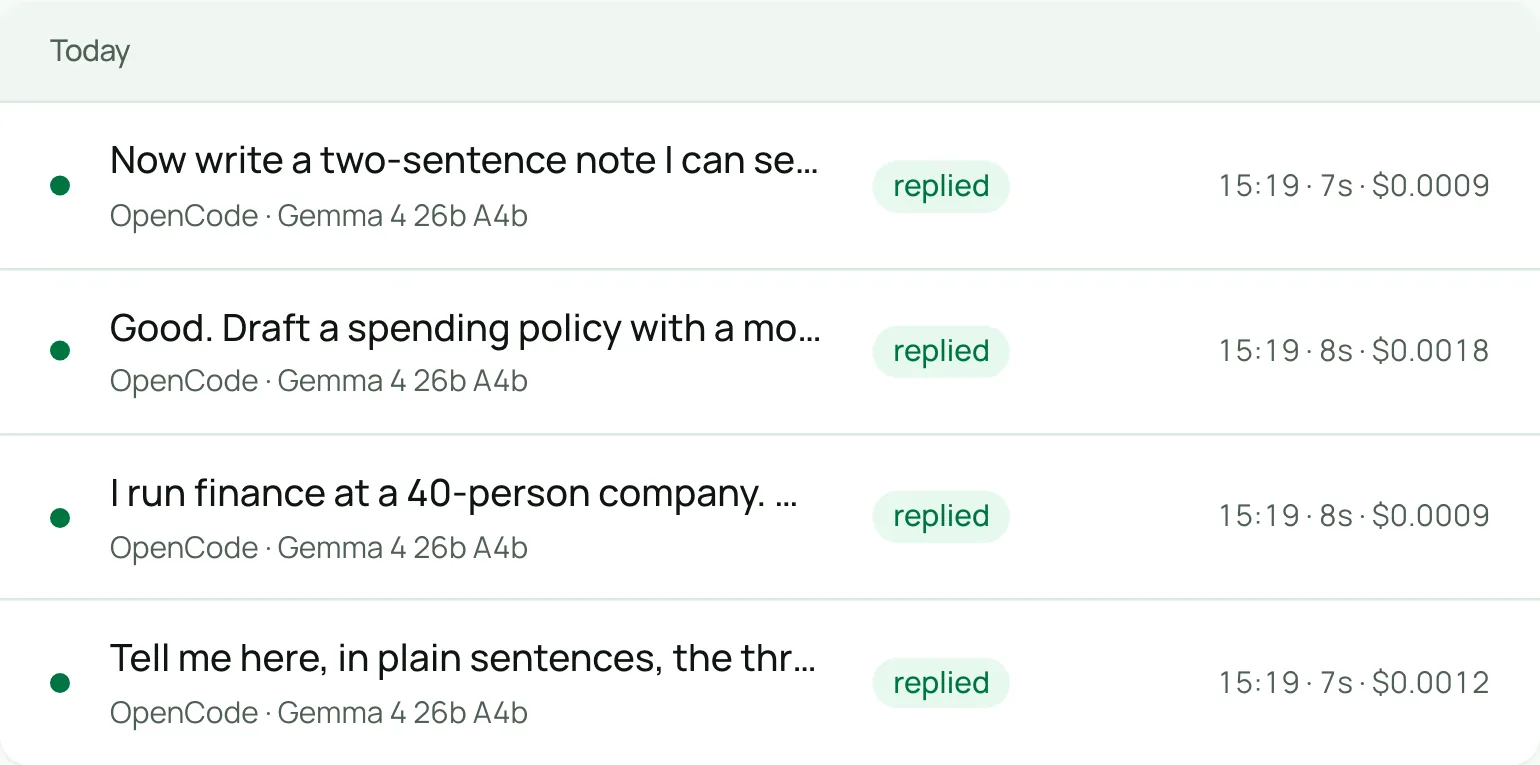
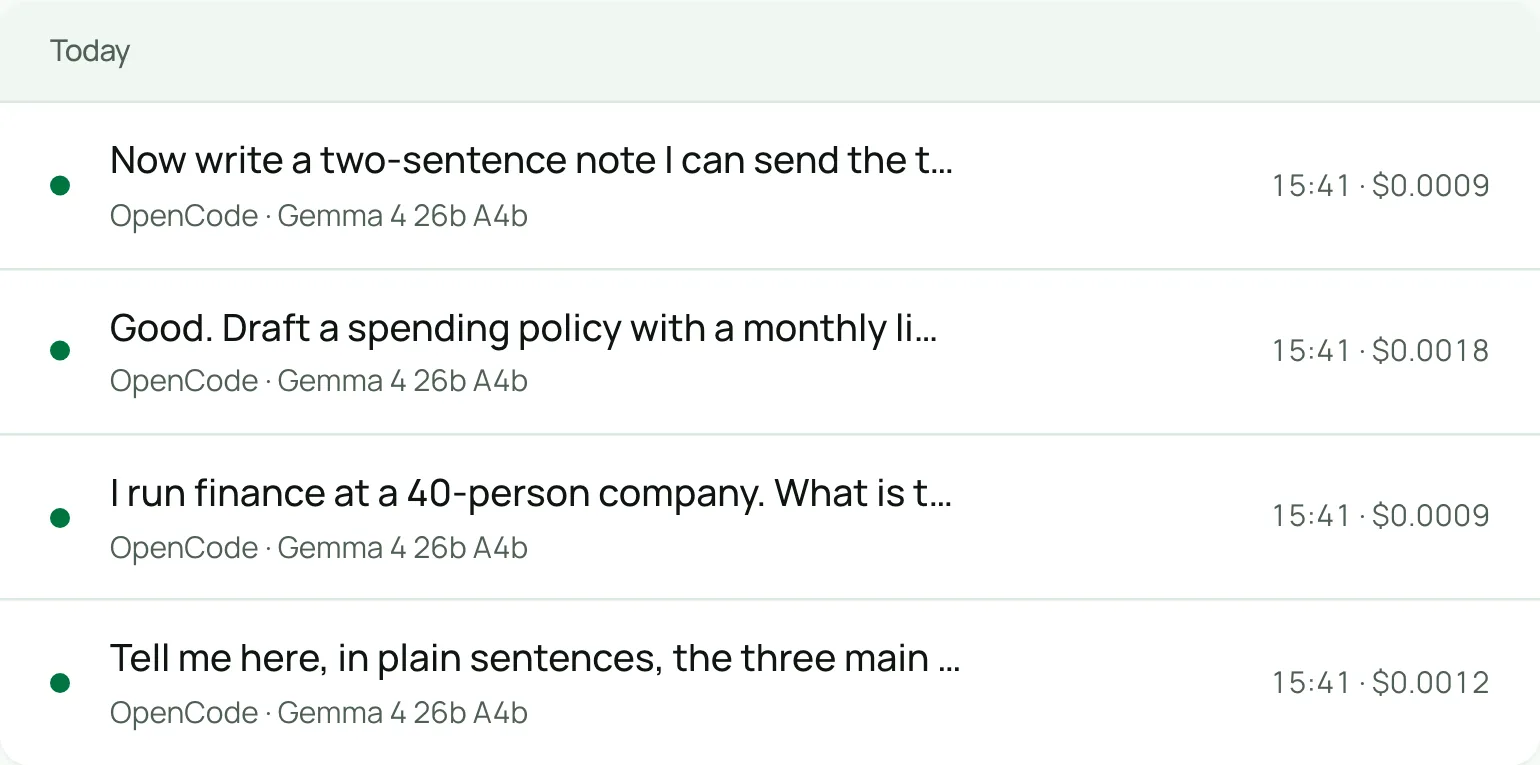
fix(web): the activity list says nothing about a normal reply; only a run that is waiting, working or failed carries a label
The green dot already says it went well, and how long it took is on the run's own page. The landing page's activity screen is retaken.

diff --git a/internal/web/templates/list.html b/internal/web/templates/list.html
@@ -49,8 +49,8 @@
         <p class="mt-0.5 truncate text-xs text-muted">{{if .On.Link}}<a class="text-muted" href="{{.On.Link}}" title="{{.On.Named}}">{{or .On.Project .On.Named}}</a>{{else}}{{template "origin" .On}}{{end}}<span>{{with .Model}} · {{brain .}}{{end}}</span></p>
         {{$asked := .Asked}}{{with waiting .ID}}<span class="text-xs text-muted">Asked by {{askedBy $asked}}. {{.}}</span>{{end}}
       </div>
-      <span class="{{if eq .State "passed"}}{{template "ag-badge-ok"}}{{else if or (eq .State "failed") (eq .State "interrupted")}}{{template "ag-badge-bad"}}{{else if or (eq .State "running") (eq .State "queued")}}{{template "ag-badge-warn"}}{{else}}{{template "ag-badge"}}{{end}}" title="{{when .Queued}}">{{outcome .}}</span>
-      <span class="whitespace-nowrap text-right text-xs tabular-nums text-muted @max-[48rem]:hidden"><span title="{{when .Queued}}">{{hourOf .Queued}}</span>{{$took := took .Started .Ended}}{{if $took}} · {{$took}}{{end}}{{if or .Metered .Cost}} · {{template "cost" .}}{{end}}</span>
+      {{$outcome := outcome .}}{{if or (eq $outcome "replied") (eq $outcome "check passed")}}<span></span>{{else}}<span class="{{if eq .State "passed"}}{{template "ag-badge-ok"}}{{else if or (eq .State "failed") (eq .State "interrupted")}}{{template "ag-badge-bad"}}{{else if or (eq .State "running") (eq .State "queued")}}{{template "ag-badge-warn"}}{{else}}{{template "ag-badge"}}{{end}}" title="{{when .Queued}}">{{outcome .}}</span>{{end}}
+      <span class="whitespace-nowrap text-right text-xs tabular-nums text-muted @max-[48rem]:hidden"><span title="{{when .Queued}}">{{hourOf .Queued}}</span>{{if or .Metered .Cost}} · {{template "cost" .}}{{end}}</span>
     </li>
     {{end}}
   </ol>
